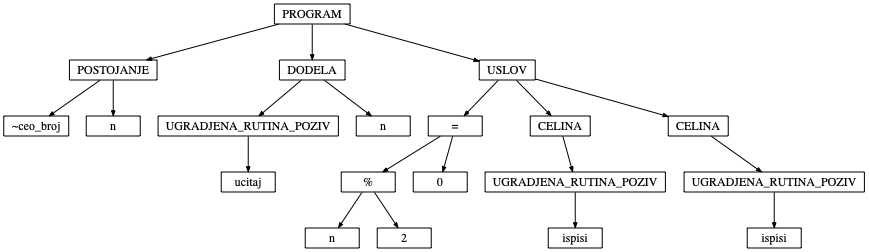
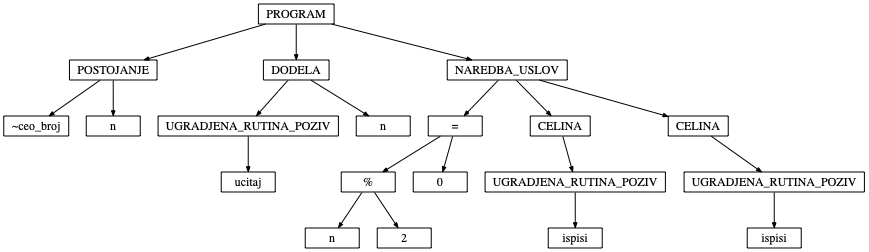
[FIX] Exclamation mark - recognized in lexer

diff --git a/project_2/interpreter/app/parser.py b/project_2/interpreter/app/parser.py
@@ -40,6 +40,10 @@ class Parser():
                                 cvorovi.append(self.naredba())
                         elif self.current_token.token_type == RUTINA_POCETAK:
                                 cvorovi.append(self.rutina())
+                        elif self.current_token.token_type == RUTINA_POZIV_POCETAK:
+                                cvorovi.append(self.rutina_poziv())
+                        elif self.current_token.token_type == UGRADJENA_RUTINA_POZIV_POCETAK:
+                                cvorovi.append(self.ugradjena_rutina_poziv())
                         else:
                                 self.error('Derivation error: PROGRAM')
                 return Program(cvorovi)
@@ -47,8 +51,8 @@ class Parser():
         def naredba(self):
                 if self.is_naredba_uslov():
                         return self.naredba_uslov()
-                elif self.current_token.token_type == NAREDBA_PONAVLJANJE:
-                        return self.vnaredba_ponavljanje()
+                elif self.is_naredba_ponavljanje():
+                        return self.naredba_ponavljanje()
                 else:
                         self.error('Derivation error: NAREDBA')
         
@@ -58,56 +62,51 @@ class Parser():
         @restorable
         def is_naredba_uslov(self):
                 self.eat(NAREDBA_POCETAK)
-                self.celina_da()
-                self.celina_ne()
-                self.celina_pitanje()
-                self.eat(NAREDBA_KRAJ)
-                self.eat(COLON)
+                if self.is_celina_da():
+                        self.celina_da()
+                if self.is_celina_ne():
+                        self.celina_ne()
+                if self.is_celina_pitanje():
+                        self.celina_pitanje()
+                if self.current_token.token_type == NAREDBA_KRAJ:
+                       self.eat(NAREDBA_KRAJ)
+                if self.current_token.token_type == COLON:
+                        self.eat(COLON)
                 return self.current_token.token_type == NAREDBA_USLOV
 
         def naredba_uslov(self):
                 self.eat(NAREDBA_POCETAK)
-                pitanje = None
-                da = None
+                da = self.celina_da()
                 ne = None
-                if self.is_celina_da():
-                        da = self.celina_da()
                 if self.is_celina_ne():
                         ne = self.celina_ne()
-                if self.is_celina_pitanje():
-                        pitanje = self.celina_pitanje()
+                pitanje = self.celina_pitanje()
                 self.eat(NAREDBA_KRAJ)
                 self.eat(COLON)
                 self.eat(NAREDBA_USLOV)
                 return NaredbaUslov(pitanje, da, ne)
 
+        @restorable
+        def is_naredba_ponavljanje(self):
+                self.eat(NAREDBA_POCETAK)
+                if self.is_celina_ponovi():
+                        self.celina_ponovi()
+                if self.is_celina_pitanje():
+                        self.celina_pitanje()
+                if self.current_token.token_type == NAREDBA_KRAJ:
+                        self.eat(NAREDBA_KRAJ)
+                if self.current_token.token_type == COLON:
+                        self.eat(COLON)
+                return self.current_token.token_type == NAREDBA_PONAVLJANJE
+
         def naredba_ponavljanje(self):
                 self.eat(NAREDBA_POCETAK)
-                pitanje = None
-                ponovi = None
-                if self.is_celina_pitanje():
-                        pitanje = self.celina_pitanje()
-                if self.current_token.token_type == CELINA_PONOVI:
-                        ponovi = self.celina_ponovi()
+                ponovi = self.celina_ponovi()
+                pitanje = self.celina_pitanje()
                 self.eat(NAREDBA_KRAJ)
                 self.eat(COLON)
                 self.eat(NAREDBA_PONAVLJANJE)
                 return NaredbaUslov(pitanje, ponovi)
-
-        def var_declaration_list(self):
-                declarations = []
-                type_node = Type_node(self.current_token.value)
-                self.eat(TIP_PODATKA)
-                var_node = Variable(self.current_token.value)
-                self.eat(NAZIV)
-                declarations.extend(self.var_declaration(type_node, var_node))
-                while self.current_token.token_type == COMMA:
-                        self.eat(COMMA)
-                        var_node = Variable(self.current_token.value)
-                        self.eat(NAZIV)
-                        declarations.extend(self.var_declaration(type_node, var_node))
-                self.eat(SEMICOLON)
-                return declarations
 
         def dodela(self):
                 self.eat(DODELA_POCETAK)
@@ -187,6 +186,15 @@ class Parser():
                 self.eat(CELINA_NE)
                 return celina
 
+        @restorable
+        def is_celina_ponovi(self):
+                self.eat(CELINA_POCETAK)
+                while self.current_token.token_type != CELINA_KRAJ:
+                    self.eat(self.current_token.token_type)
+                self.eat(CELINA_KRAJ)
+                self.eat(COLON)
+                return self.current_token.token_type == CELINA_PONOVI
+
         def celina_ponovi(self):
                 self.eat(CELINA_POCETAK)
                 celina = self.celina_celina()
@@ -201,6 +209,14 @@ class Parser():
                 self.eat(CELINA_KRAJ)
                 self.eat(COLON)
                 self.eat(CELINA_POLJE)
+                return celina
+
+        def celina_sadrzaj_rutine(self):
+                self.eat(CELINA_POCETAK)
+                celina = self.celina_celina()
+                self.eat(CELINA_KRAJ)
+                self.eat(COLON)
+                self.eat(CELINA_SADRZAJ_RUTINE)
                 return celina
 
         def celina_celina(self):
@@ -219,6 +235,33 @@ class Parser():
                         else:
                             self.error('Derivation error: CELINA_CELINA')
                 return CelinaCelina(cvorovi)
+
+        def rutina(self):
+            self.eat(RUTINA_POCETAK)
+            self.eat(PIPE)
+            tip = None
+            if self.current_token.token_type == TIP_PODATKA:
+                tip = self.tip_podatka()
+            sadrzaj = self.celina_sadrzaj_rutine()
+            self.eat(RUTINA_KRAJ)
+            self.eat(COLON)
+            naziv = self.naziv()
+            return Rutina(tip, sadrzaj, naziv)
+
+        def rutina_poziv(self):
+            self.eat(RUTINA_POZIV_POCETAK)
+            self.eat(PIPE)
+            argumenti = []
+            while self.current_token.token_type != RUTINA_POZIV_KRAJ:
+                argumenti.append(self.logic())
+                if self.current_token.token_type == STRUNA:
+                    self.eat(STRUNA)
+                if self.current_token.token_type == COMMA:
+                    self.eat(COMMA)
+            self.eat(RUTINA_POZIV_KRAJ)
+            self.eat(COLON)
+            naziv = self.naziv()
+            return RutinaPoziv(argumenti, naziv)
 
         def ugradjena_rutina_poziv(self):
             self.eat(UGRADJENA_RUTINA_POZIV_POCETAK)
@@ -346,10 +389,10 @@ class Parser():
         def check_logic(self, node):
                 if str(type(node).__name__) == 'BinarnaOperacija':
                         if node.simbol not in ['<', '>', '>=', '<=', '=', '!=']:
-                                self.type_error('logical operator ', node.simbol)
+                                self.type_error('LOGICKI_OPERATOR', node.simbol)
                 elif str(type(node).__name__) == 'UnarnaOperacija':
                         if node.simbol not in ['!']:
-                                self.type_error('not', node.simbol)
+                                self.type_error('LOGICKO_NE', node.simbol)
                 else:
                     self.error('Derivation error: LOGIC')
 
@@ -360,11 +403,11 @@ class Parser():
                         self.check_logic(left_node)
                         right_node = self.compare()
                         self.check_logic(right_node)
-                        left_node = BinarnaOperacija(left_node, 'and', right_node)
+                        left_node = BinarnaOperacija(left_node, LOGICKO_I, right_node)
                 elif self.current_token.token_type == LOGICKO_ILI:
                         self.eat(LOGICKO_ILI)
                         self.check_logic(left_node)
                         right_node = self.compare()
                         self.check_logic(right_node)
-                        left_node = BinarnaOperacija(left_node, 'or', right_node)
+                        left_node = BinarnaOperacija(left_node, LOGICKO_ILI, right_node)
                 return left_node

diff --git a/project_2/interpreter/app/lexer.py b/project_2/interpreter/app/lexer.py
@@ -108,7 +108,7 @@ class Lexer():
                 if self.pos >= len(self.text):
                         return Token(EOF, None)
                 current_char = self.text[self.pos]
-                token = {}
+                token = None
                 if current_char.isdigit():
                         token =  Token(CEO_BROJ, self.parse_number())
                 elif self.text[self.pos].isalpha() or self.text[self.pos] == '#' or self.text[self.pos] == '~':
@@ -143,8 +143,6 @@ class Lexer():
                     token = Token(COLON, ':')
                 elif current_char == ',':
                     token = Token(COMMA, ',')
-                elif current_char == '!':
-                        self.advance()
                 elif current_char == '(':
                         token = Token(OTVORENA_ZAGRADA, '(')
                 elif current_char == ')':
@@ -160,9 +158,9 @@ class Lexer():
                 elif current_char == '=':
                         token = Token(JEDNAKO, '=')
                 elif current_char == ':':
-                    token = Token(COLON, ':')
+                        token = Token(COLON, ':')
                 elif current_char == ',':
-                    token = Token(COMMA, ',')
+                        token = Token(COMMA, ',')
                 elif current_char == '!':
                         self.advance()
                         if self.current_char == '=':
@@ -182,8 +180,7 @@ class Lexer():
                                 token = Token(PIPE, '|')
                                 self.pos -= 1
                 else:
-                        print("CHAR: " + current_char)
-                        self.error("")
+                        self.error(current_char)
                 self.pos += 1
                 return token
 
